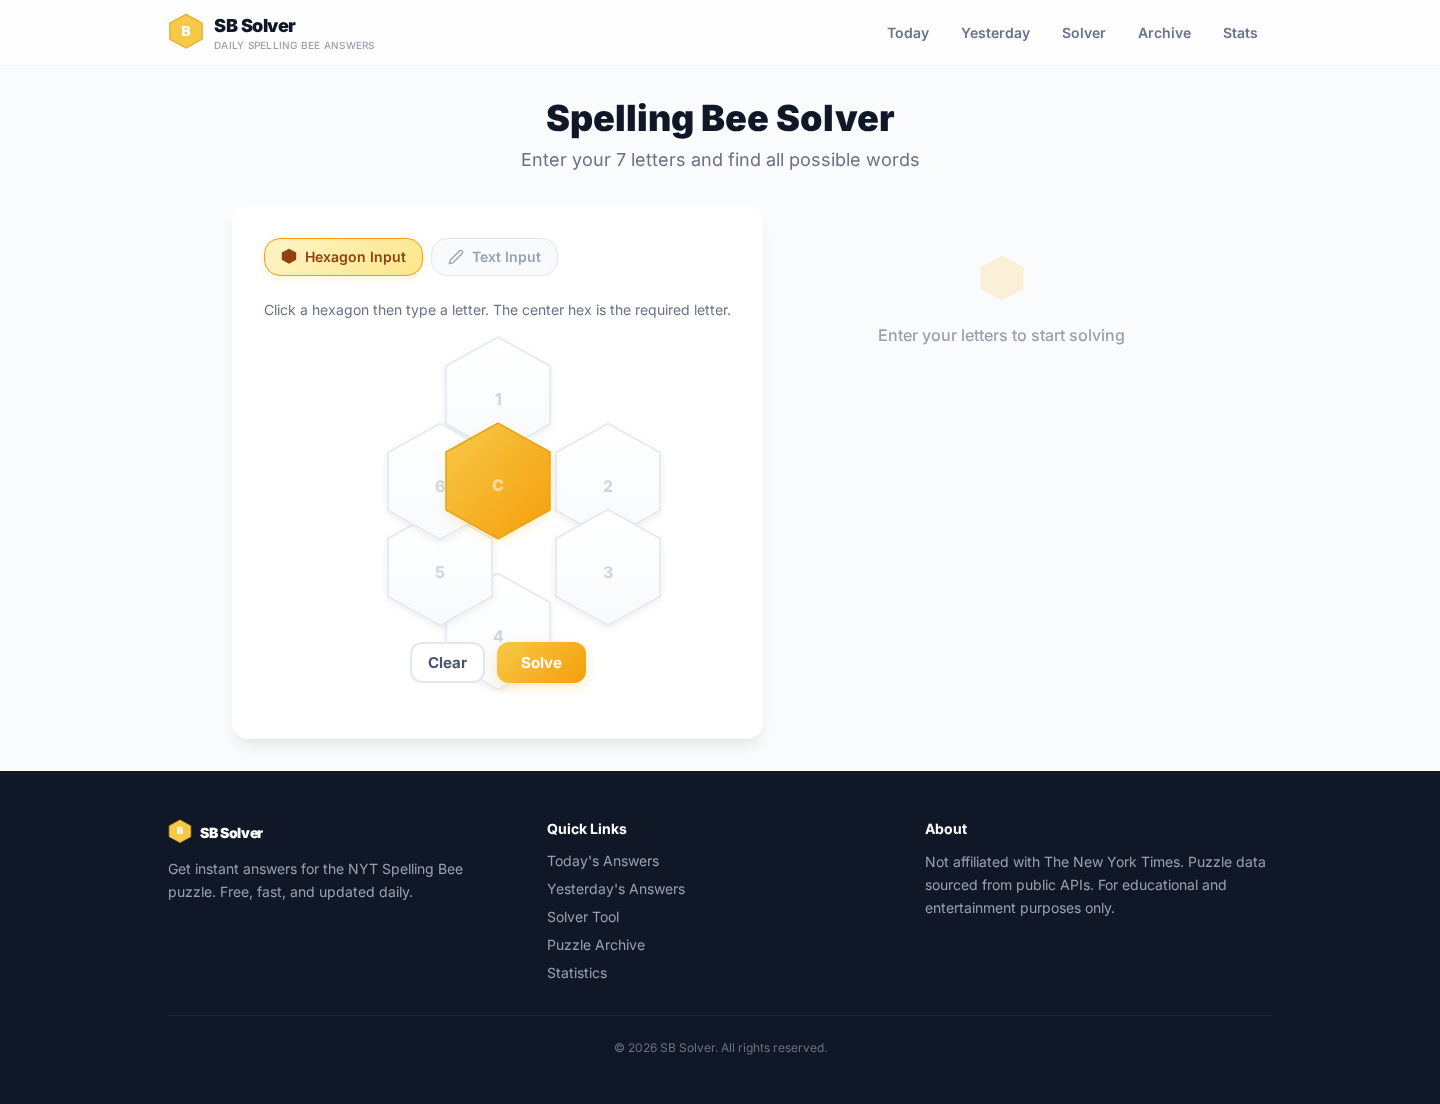
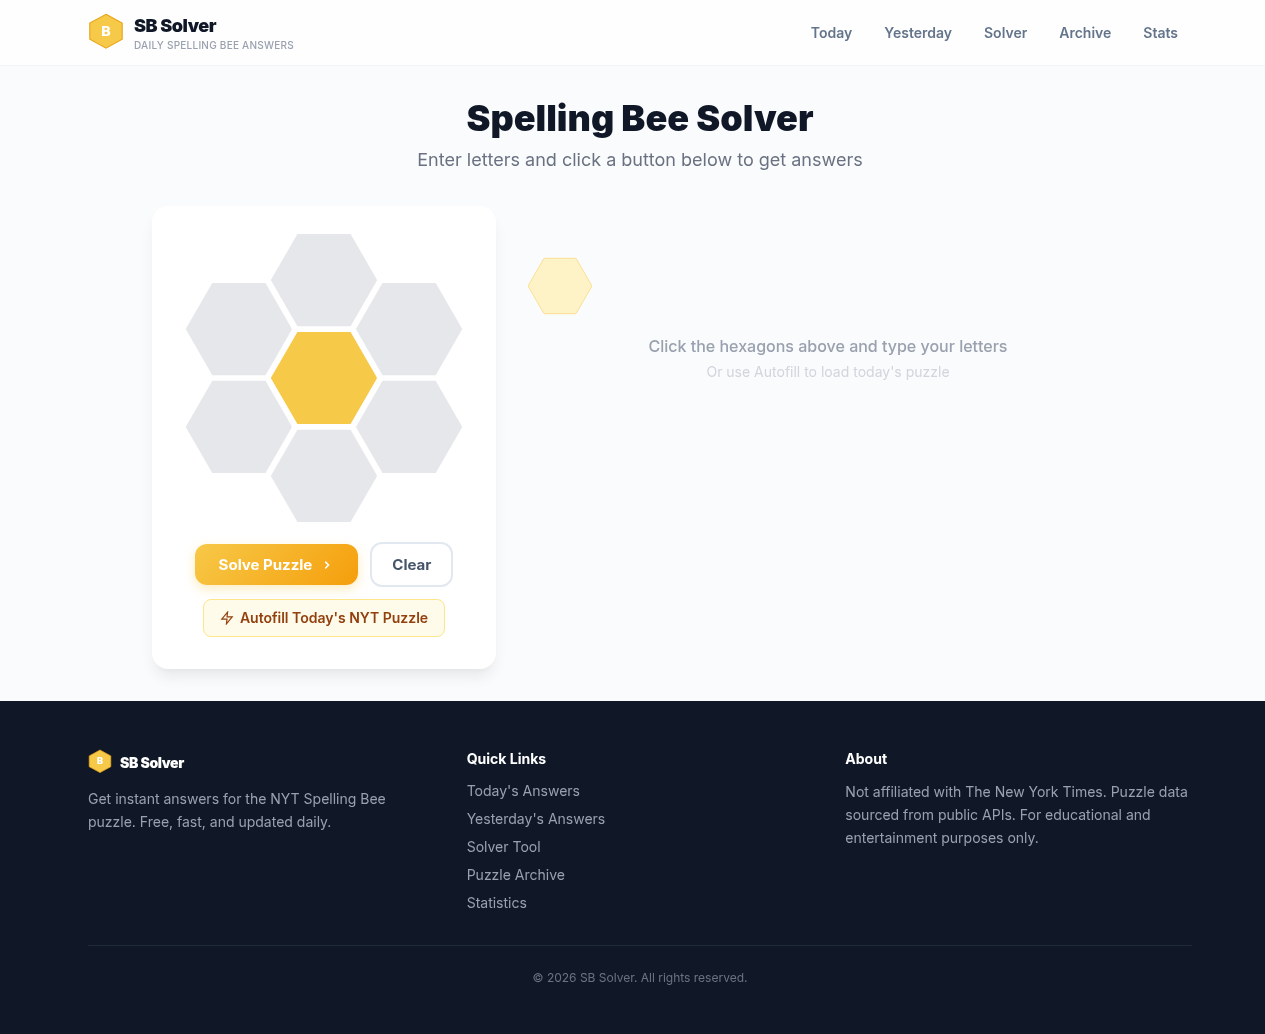
7566f7a6-f39e-4c1d-b4be-4e4135755f40

diff --git a/worklog.md b/worklog.md
@@ -28,3 +28,34 @@ Stage Summary:
 - Dark gradient hero section with hex pattern background
 - Proper Inter font, card system, stat cards, word chips, pangram chips
 - Deployed and tested on Cloudflare Pages
+
+---
+Task ID: fix-2
+Agent: Main Agent
+Task: Fix hexagon design, solver page, autofill, brand name bugs
+
+Work Log:
+- Visited nytbee.com with Playwright to identify all features/data they show
+- Visited beesolver.com with Playwright and downloaded hexagon source code structure
+- Visited sbsolver.online (our deployed site) to identify current visual issues
+- Visited NYT Spelling Bee official site for hexagon reference
+- Found bugs: today page showing "SbAnswer.com" brand, broken hexagon positioning, missing autofill button, solver page poor design
+- Rewrote Honeycomb.astro using beesolver.com's CSS-based approach (absolute positioning + transforms)
+- Rewrote solver.astro with beesolver.com-style interactive hexagon inputs inside each hex cell
+- Added Autofill Today's NYT Puzzle button (fetches from /today API endpoint)
+- Fixed today.astro title (was "SbAnswer.com" now "SB Solver")
+- Fixed BaseLayout.astro title format
+- Updated [slug].astro to use new CSS hexagon display
+- Updated global.css with beesolver.com-style honeycomb CSS
+- Built and deployed to Cloudflare Pages (spellingbee-solver.pages.dev)
+- Pushed to GitHub (sujitbhai7710/spellingbee-solver)
+- Added sbsolver.online as custom domain to Cloudflare Pages project
+- Tested: solver hexagon input works, autofill works (fills N,B,D,E,L,M,O), solve returns 124 words
+- NOTE: sbsolver.online currently points to old Vercel deployment (different Cloudflare account), needs DNS update
+
+Stage Summary:
+- Hexagon completely redesigned using beesolver.com CSS approach (transforms instead of SVG pixel offsets)
+- Solver page now has interactive hexagons with input fields inside each cell
+- Autofill button fetches today's puzzle from API and auto-solves
+- Brand name bug fixed (SbAnswer.com → SB Solver)
+- Deployed to Cloudflare Pages, but sbsolver.online DNS needs updating from Vercel to CF Pages